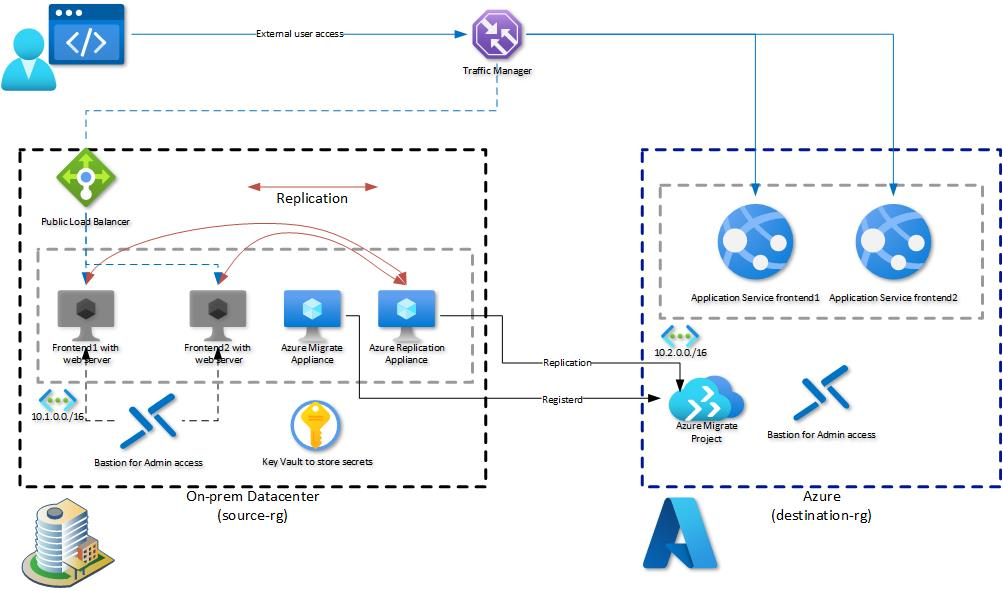
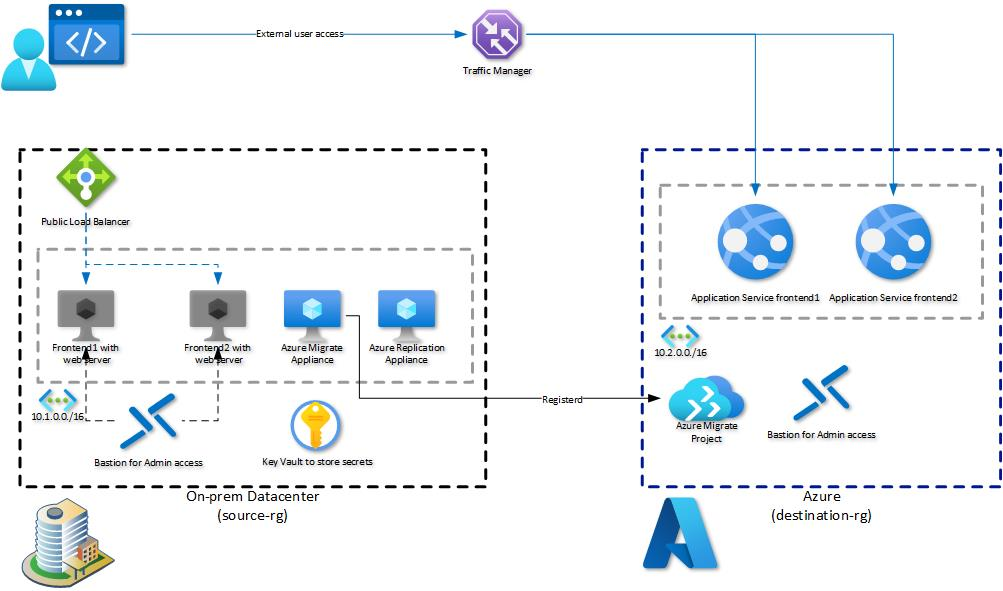
Update Challenge 6

diff --git a/03-Azure/01-03-Infrastructure/06_Migration_Datacentre_Modernization/walkthrough/challenge-6/solution.md b/03-Azure/01-03-Infrastructure/06_Migration_Datacentre_Modernization/walkthrough/challenge-6/solution.md
@@ -112,13 +112,36 @@ You should now see the web site content that was previously running on Windows S
 
 **Repeat the above steps for the frontend2 VM**
 
+### **Task 3: Update Traffic Manager profile**
 
+The Traffic Manager profile is still pointing to the previousley migrated Virtual Machines. You can now update the endpoints within the profile to point to the App Services instead of the VMs.
+
+From the Azure Portal open the Load Balancing blade, select Traffic Manager on the navigation pane and select the previously created *tfp-frontend* Traffic Manager profile. Select *Endpoints* and click *Add*.
+
+![image](./img/tfupdate1.png)
+
+Select *Azure endpoint*, provide a name, select *App Service* and select the previousley created App Service.
+
+![image](./img/tfupdate2.png)
+
+**Repeat the above step for the frontend2 App Service**
+
+Next delete the endpoints for the Virtual Machines.
+
+![image](./img/tfupdate3.png)
+
+You can now browse to the Traffic Manager profile. Again, from a user perspective nothing changed but you are now browsing the web site content that is hosted on Azure App Service instead of Virtual Machines.
+
+![image](./img/tfupdate4.png)
 
 You successfully completed challenge 6! 🚀🚀🚀
 
 The deployed architecture now looks like the following diagram.
 
 ![image](./img/Challenge-6.jpg)
+
+
+🚀🚀🚀 **!!!Congratulations!!! - You successfully completed the MicroHack. You can now safley remove the *source-rg* and *destination-rg* Resource Groups.** 🚀🚀🚀
 
 
  **[Home](../../Readme.md)** -
